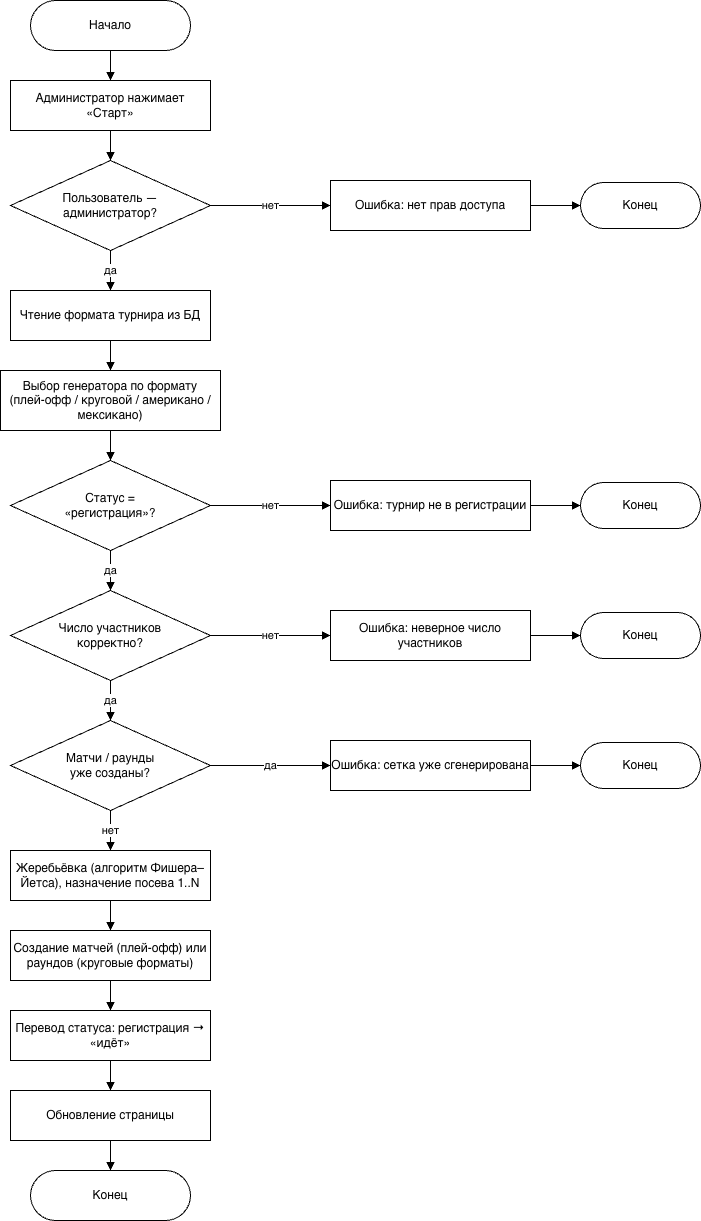
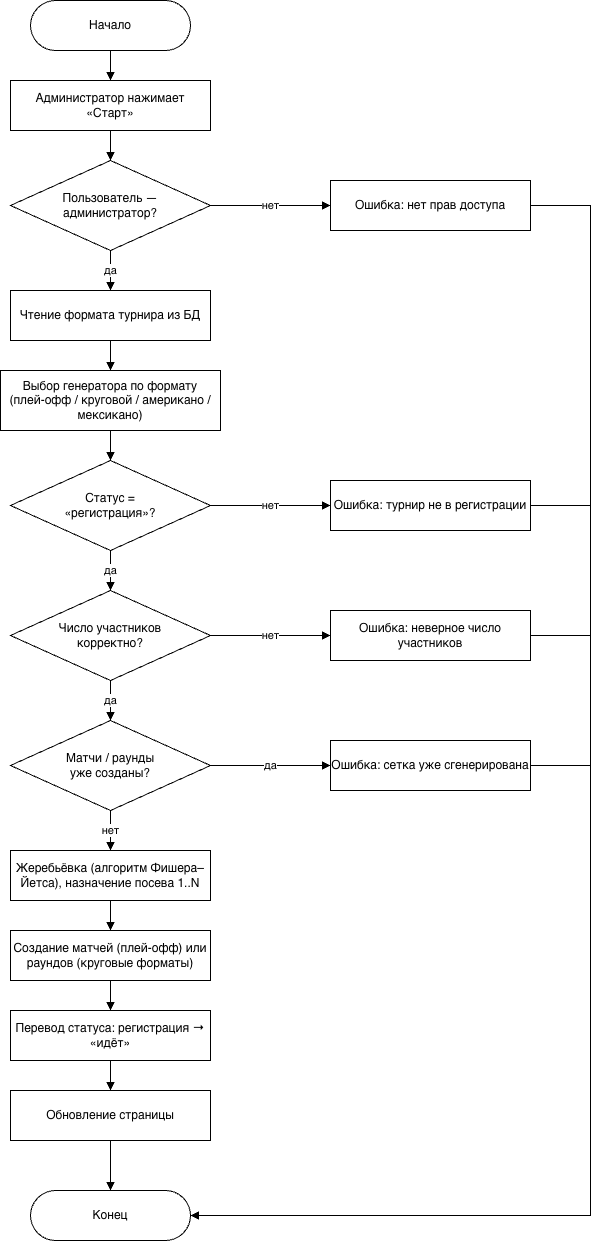
docs: fig 7 — единый «Конец» в блок-схеме (ГОСТ 19.701)
Сведены 5 терминаторов «Конец» в один: ветви ошибок собраны общей линией,
успешный путь входит сверху. Добавлен 07-GOST-AUDIT.md (проверка нотации +
обоснование: single-exit — нормоконтроль/структурное программирование,
не буква ГОСТ; отклонены правки, рассинхронящие схему с кодом).

diff --git a/docs/diagrams/07-GOST-AUDIT.md b/docs/diagrams/07-GOST-AUDIT.md
@@ -1,0 +1,83 @@
+# Рисунок 7 — аудит блок-схемы по ГОСТ 19.701-90
+
+Файл-источник: `07-algoritm-zapuska.drawio` (рендер: `07.png`).
+Дата аудита: 2026-06-24. Повод: замечание науч. рук. —
+«В б-с алгоритма д. б. один блок *Начало* (есть) и один блок *Конец*».
+
+## Что сделано
+
+Схема имела **1 «Начало» и 5 «Конец»** (успешный финал `endOk` + по одному
+терминатору на каждую ветвь ошибки: нет прав / не регистрация / неверное
+число / сетка уже создана). Замечание устранено: **оставлен один «Конец»**.
+
+Все ветви (успешный путь + 4 ветви ошибок) сведены в единственный терминатор
+**общей линией**: 4 ветви ошибок сходятся в одну вертикальную линию справа
+(ствол x=880) и одним входом упираются в «Конец». Успешный путь входит сверху.
+Структурно проверено: 1 «Начало», 1 «Конец», битых/изолированных узлов нет;
+входы в «Конец» — `p7` (успех) + `er1..er4` (общий ствол ошибок).
+
+## Проверка нотации (символы — соответствуют ГОСТ 19.701-90)
+
+| Символ | Применение в схеме | Норма |
+|--------|--------------------|-------|
+| Терминатор (скруглённый прямоуг./овал) | «Начало», «Конец» | ✓ п. 3.4.2 |
+| Процесс (прямоугольник) | действия `p1`–`p7`, ветви ошибок `er1`–`er4` | ✓ |
+| Решение (ромб) | проверки `d1`–`d4`, два помеченных выхода «да»/«нет» | ✓ |
+| Линии потока | сверху-вниз; общая линия ошибок сливается в один «Конец»; стрелки на всех | ✓ разд. 4, п. 4.2.3 (слияние) |
+
+## Важный нюанс для защиты
+
+**«Один Начало — один Конец» — это НЕ буква ГОСТ 19.701-90.** Сам стандарт
+(= ИСО 5807-85) определяет только символ «Терминатор» (п. 3.4.2 — назначение:
+«выход во внешнюю среду… начало или конец схемы») и **нигде не нормирует число
+терминаторов**; слово «единственный» в тексте не встречается, а п. 4.3.1
+(«Несколько выходов») вообще легализует множественные выходы.
+
+Требование «один вход — один выход» происходит из **принципа структурного
+программирования** (теорема Бёма–Якопини, 1966; Дейкстра/Миллс: single-entry/
+single-exit) и из **требований нормоконтроля / вузовских методичек**.
+
+➡ На защите формулировать так: единственный «Конец» соблюдён **по
+требованию нормоконтроля и принципу структурного программирования**, а не как
+«прямая буква ГОСТ 19.701-90». Соблюдать — обязательно (нормоконтроль требует),
+обосновывать — корректно.
+
+## Что НЕ меняли (рассмотрено и отклонено)
+
+Адверсариальная проверка двух дополнительных правок показала, что их применять
+нельзя — они внесли бы новые ошибки:
+
+1. **Перевод блоков чтения/вывода в параллелограмм «Данные» — отклонено.**
+   `p5` («Создание матчей/раундов») — настоящая вычислительная операция
+   (генератор Фишера–Йетса), это «Процесс». Ветви ошибок `er1`/`er4` — не
+   ввод-вывод данных. Массовая замена на параллелограмм нарушила бы ГОСТ.
+   Спорен только `p2` («Чтение формата из БД») — допустим как «Процесс»
+   (действие «чтение»); при желании — символ хранимых данных/БД, **не** общий
+   параллелограмм. Изменение необязательное, оставлено как есть.
+
+2. **Перестановка проверок перед чтением/обработкой — отклонено.** ГОСТ
+   19.701-90 — стандарт нотации, **порядок логики алгоритма не регламентирует**.
+   Схема точно отражает код: `format-engine.ts startFormat` сначала читает
+   `tournament.format` и выбирает генератор (`p2`/`p3` — чистые чтения без
+   побочных эффектов), затем `bracket.ts generateBracket` в транзакции проверяет
+   статус (`d2`) → число пар (`d3`) → отсутствие матчей (`d4`) и только потом
+   делает жеребьёвку/создание (`p4`/`p5`). Первая мутация стоит **после** всех
+   проверок — дефекта «обработка до валидации» нет. Перестановка рассинхронила
+   бы схему с кодом.
+
+## Перерисовать PNG
+
+`07.png` после правки **устарел** (показывает 5 «Конец»). Перегенерировать:
+[app.diagrams.net](https://app.diagrams.net) → File → Open `07-algoritm-zapuska.drawio`
+→ File → Export as → PNG → заменить `07.png`.
+
+## Источники
+
+- ГОСТ 19.701-90 (ЕСПД, = ИСО 5807-85). Схемы алгоритмов, программ, данных и
+  систем. Условные обозначения и правила выполнения — п. 3.4.1 (Соединитель),
+  п. 3.4.2 (Терминатор), п. 4.3.1 (Несколько выходов), разд. 4 (правила линий).
+  Текст: docs.cntd.ru/document/9041994 ; robot.bmstu.ru/files/GOST/gost_19.701-90.pdf
+- ISO 5807:1985 — международный аналог.
+- ГОСТ 19.002-80 (предшественник; символ «Пуск-останов» в ролях пуск/прерывание/
+  останов — тоже без требования «ровно один конец»).
+- Теорема Бёма–Якопини (1966) — обоснование single-entry/single-exit.
